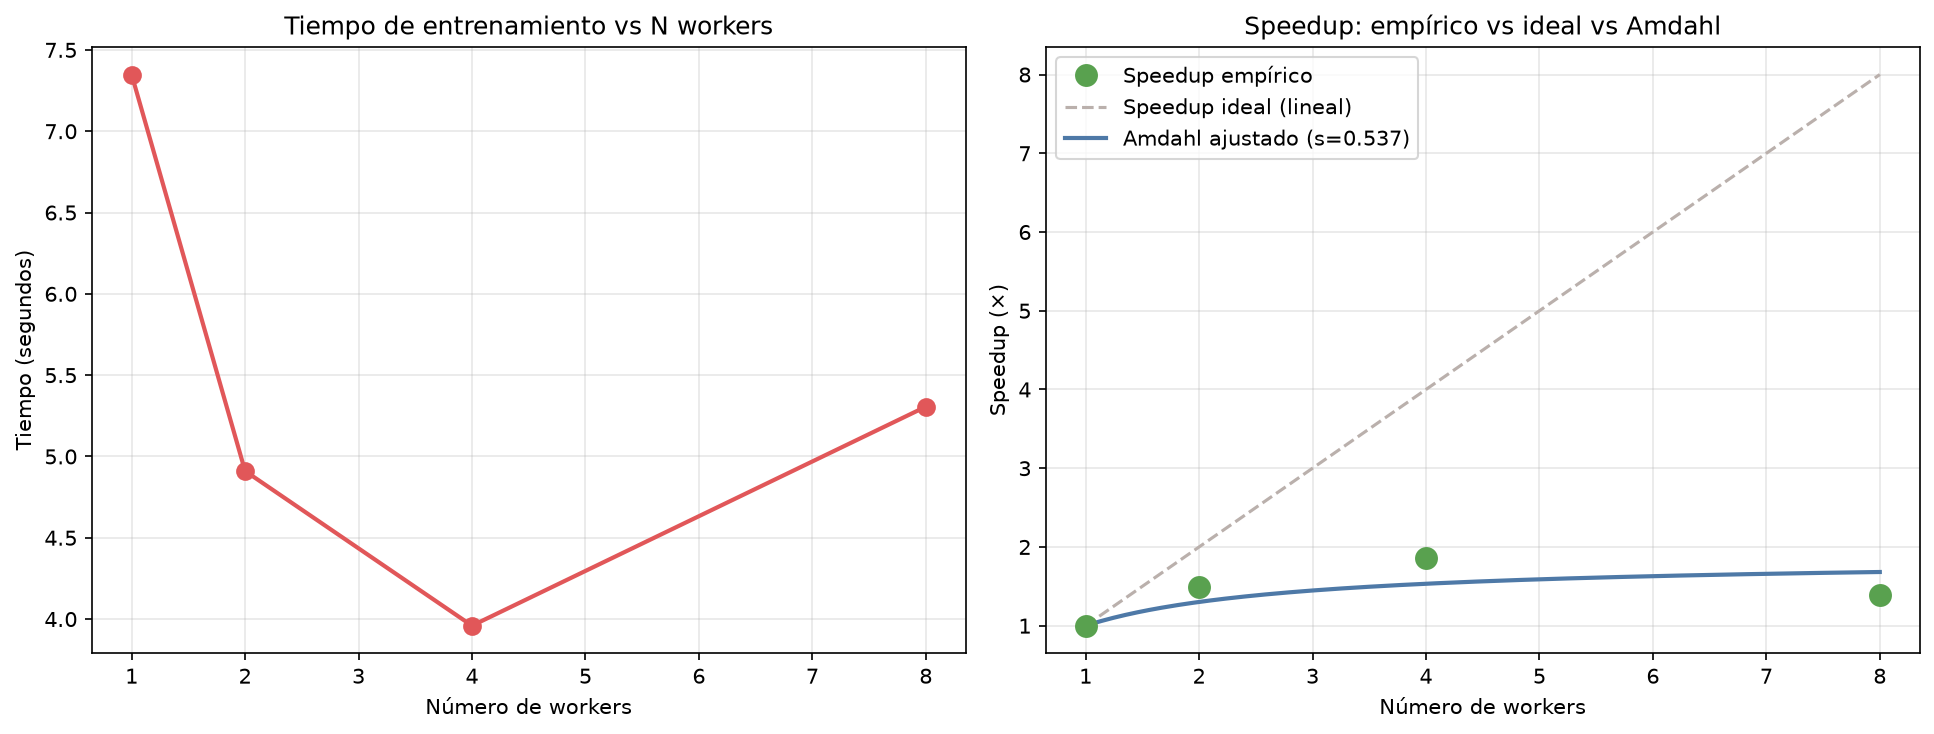
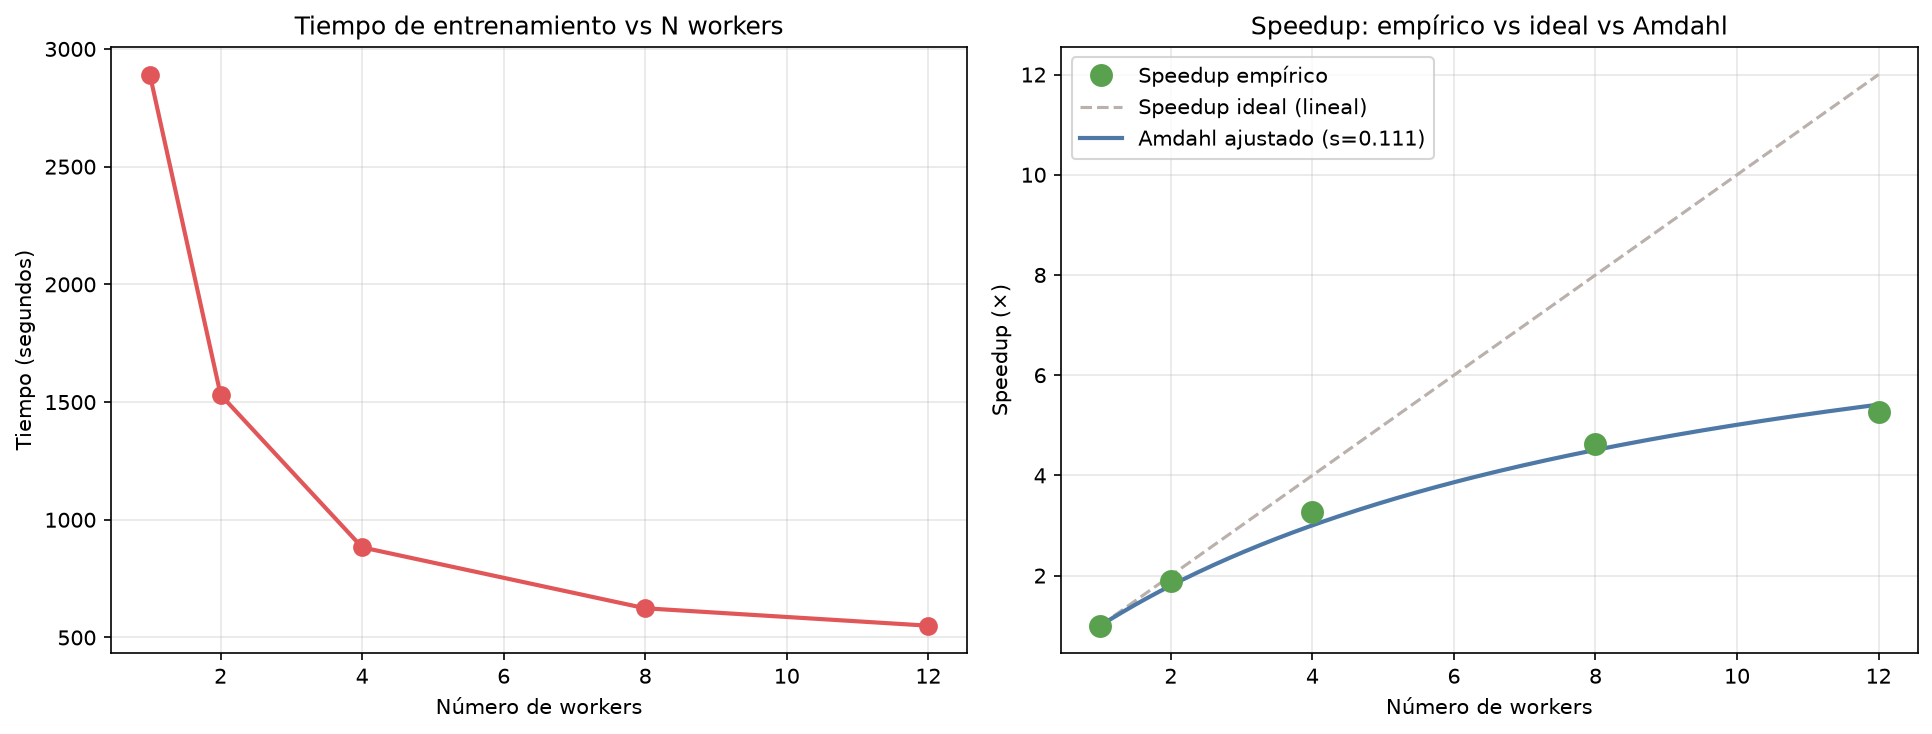
algunas optimizaciones en trading_env

diff --git a/env/trading_env.py b/env/trading_env.py
@@ -24,6 +24,11 @@ class TradingEnv(gym.Env):
         super().__init__()
 
         self.data = data
+        self._close      = data['Close'].to_numpy(dtype=np.float64)
+        self._close_norm = data['close_norm'].to_numpy(dtype=np.float32)
+        self._vol_norm   = data['volume_norm'].to_numpy(dtype=np.float32)
+        self._rsi        = data['RSI'].to_numpy(dtype=np.float32)
+        self._macd_sig   = data['macd_signal'].to_numpy(dtype=np.float32)
         self.window = window
         self.initial_cash = initial_cash
         self.trade_penalty = trade_penalty
@@ -49,7 +54,7 @@ class TradingEnv(gym.Env):
         self.info = ENVINFO
 
     def step(self, action):
-        price_now = self.data['Close'].iloc[self.current_step]
+        price_now = self._close[self.current_step]
         
         self._execute_action(action, price_now)
         
@@ -57,8 +62,7 @@ class TradingEnv(gym.Env):
         
         reward = self._get_reward(action)
         
-        self.prev_value = self.cash + self.shares * self.data['Close'].iloc[self.current_step]
-        
+        self.prev_value = self.cash + self.shares * self._close[self.current_step]          
         obs = self._get_obs()
         
         truncated = False
@@ -72,7 +76,7 @@ class TradingEnv(gym.Env):
         return obs, float(reward), terminated, truncated, info
         
     def _get_reward(self, action):
-        asset_price = self.data['Close'].iloc[self.current_step]
+        asset_price = self._close[self.current_step]
         v_t = self.cash + self.shares * asset_price
 
         if self.prev_value == 0:
@@ -119,15 +123,17 @@ class TradingEnv(gym.Env):
         return self._get_obs(), {}
     
     def _get_obs(self):
-        close_window = self.data['close_norm'].iloc[self.current_step - self.window + 1:self.current_step + 1].values
-        volume_window = self.data['volume_norm'].iloc[self.current_step - self.window + 1:self.current_step + 1].values
-        rsi = np.array([self.data['RSI'].iloc[self.current_step]])
-        macd_signal = np.array([self.data['macd_signal'].iloc[self.current_step]])
-        position = np.array([float(self.position)])
-        
-        obs = np.concatenate([close_window, volume_window, rsi, macd_signal, position])
+        i = self.current_step
+        w = self.window
+        close_window = self._close_norm[i - w + 1:i + 1]
+        volume_window = self._vol_norm[i - w + 1:i + 1]
+        rsi = self._rsi[i:i + 1]
+        macd_signal = self._macd_sig[i:i + 1]
+        position = np.array([self.position], dtype=np.float32)
 
+        obs = np.concatenate([close_window, volume_window, rsi, macd_signal, position])
         return obs.astype(np.float32)
+
 
     def render(self):
         pass

diff --git a/training/benchmark.py b/training/benchmark.py
@@ -36,10 +36,10 @@ from training.train_parallel import run_training
 #                        CONFIGURACIÓN                            #
 # ────────────────────────────────────────────────────────────── #
 TICKER = "AAPL"
-START = "2023-01-01"
+START = "2020-01-01"
 END = "2024-01-01"
-TOTAL_EPISODES = 64
-WORKER_COUNTS = [1, 2, 4, 8]
+TOTAL_EPISODES = 12000
+WORKER_COUNTS = [1, 2, 4, 8, 12]
 USE_LOCK = False   # A3C sin lock (Hogwild) — el diferenciador del proyecto
 
 
@@ -202,11 +202,13 @@ if __name__ == "__main__":
             "elapsed_total": total_elapsed,     # dato honesto adicional para el informe
             "n_episodes_logged": len(all_metrics),
         })
+        os.makedirs("results", exist_ok=True)
+        with open("results/benchmark_results.json", "w") as f:
+            json.dump(results, f, indent=2)
+        print("Resultados parciales guardados en results/benchmark_results.json")
 
     # ── Guardar resultados crudos ──
-    os.makedirs("results", exist_ok=True)
-    with open("results/benchmark_results.json", "w") as f:
-        json.dump(results, f, indent=2)
+
     print(f"\nResultados guardados en results/benchmark_results.json")
 
     # ── Graficar ──
